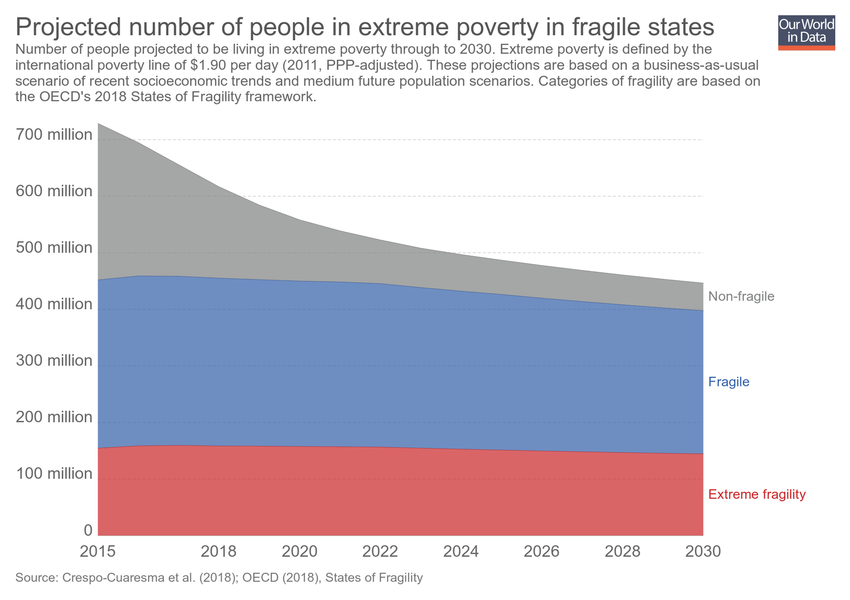
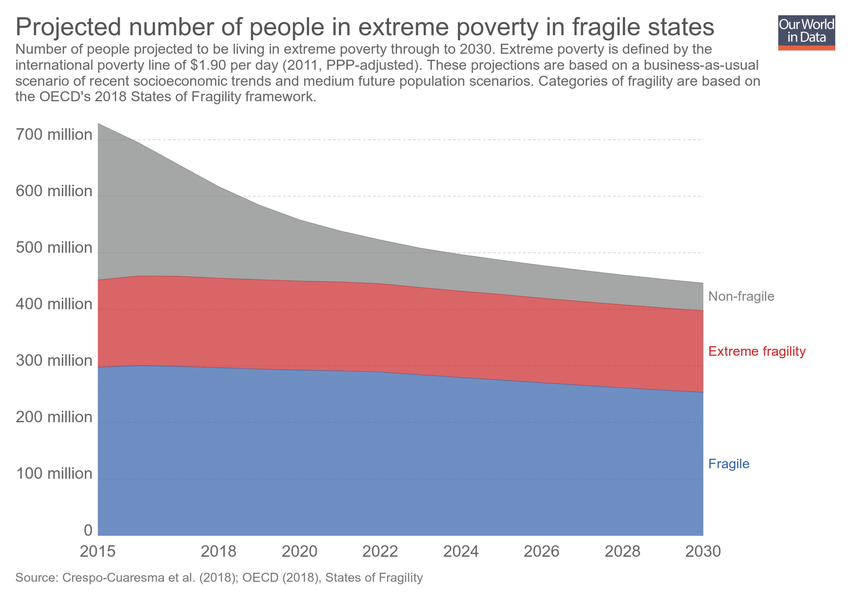
Updating chart extreme-poverty-fragile-states

Changed region(s): [[0.0918, 0.45, 0.9482, 0.66], [0.0918, 0.72, 0.9482, 0.9]]

diff --git a/grapher/extreme-poverty-fragile-states.html b/grapher/extreme-poverty-fragile-states.html
@@ -1,4 +1,4 @@
-<!doctype html><html><head><meta name="viewport" content="width=device-width, initial-scale=1" /><title>Projected number of people in extreme poverty in fragile states - Our World in Data</title><meta name="description" content="Number of people projected to be living in extreme poverty through to 2030. Extreme poverty is defined by the international poverty line of $1.90 per day (2011, PPP-adjusted). These projections are based on a business-as-usual scenario of recent socioeconomic trends and medium future population scenarios. Categories of fragility are based on the OECD's 2018 States of Fragility framework." /><link rel="canonical" href="https://ourworldindata.org/grapher/extreme-poverty-fragile-states" /><meta property="fb:app_id" content="1149943818390250" /><meta property="og:url" content="https://ourworldindata.org/grapher/extreme-poverty-fragile-states" /><meta property="og:title" content="Projected number of people in extreme poverty in fragile states" /><meta property="og:description" content="Number of people projected to be living in extreme poverty through to 2030. Extreme poverty is defined by the international poverty line of $1.90 per day (2011, PPP-adjusted). These projections are based on a business-as-usual scenario of recent socioeconomic trends and medium future population scenarios. Categories of fragility are based on the OECD's 2018 States of Fragility framework." /><meta property="og:image" content="https://ourworldindata.org/grapher/exports/extreme-poverty-fragile-states.png?v=1" /><meta property="og:image:width" content="850" /><meta property="og:image:height" content="600" /><meta property="og:site_name" content="Our World in Data" /><meta name="twitter:card" content="summary_large_image" /><meta name="twitter:site" content="@OurWorldInData" /><meta name="twitter:creator" content="@OurWorldInData" /><meta name="twitter:title" content="Projected number of people in extreme poverty in fragile states" /><meta name="twitter:description" content="Number of people projected to be living in extreme poverty through to 2030. Extreme poverty is defined by the international poverty line of $1.90 per day (2011, PPP-adjusted). These projections are based on a business-as-usual scenario of recent socioeconomic trends and medium future population scenarios. Categories of fragility are based on the OECD's 2018 States of Fragility framework." /><meta name="twitter:image" content="https://ourworldindata.org/grapher/exports/extreme-poverty-fragile-states.png?v=1" /><style>
+<!doctype html><html><head><meta name="viewport" content="width=device-width, initial-scale=1" /><title>Projected number of people in extreme poverty in fragile states - Our World in Data</title><meta name="description" content="Number of people projected to be living in extreme poverty through to 2030. Extreme poverty is defined by the international poverty line of $1.90 per day (2011, PPP-adjusted). These projections are based on a business-as-usual scenario of recent socioeconomic trends and medium future population scenarios. Categories of fragility are based on the OECD's 2018 States of Fragility framework." /><link rel="canonical" href="https://ourworldindata.org/grapher/extreme-poverty-fragile-states" /><meta property="fb:app_id" content="1149943818390250" /><meta property="og:url" content="https://ourworldindata.org/grapher/extreme-poverty-fragile-states" /><meta property="og:title" content="Projected number of people in extreme poverty in fragile states" /><meta property="og:description" content="Number of people projected to be living in extreme poverty through to 2030. Extreme poverty is defined by the international poverty line of $1.90 per day (2011, PPP-adjusted). These projections are based on a business-as-usual scenario of recent socioeconomic trends and medium future population scenarios. Categories of fragility are based on the OECD's 2018 States of Fragility framework." /><meta property="og:image" content="https://ourworldindata.org/grapher/exports/extreme-poverty-fragile-states.png?v=2" /><meta property="og:image:width" content="850" /><meta property="og:image:height" content="600" /><meta property="og:site_name" content="Our World in Data" /><meta name="twitter:card" content="summary_large_image" /><meta name="twitter:site" content="@OurWorldInData" /><meta name="twitter:creator" content="@OurWorldInData" /><meta name="twitter:title" content="Projected number of people in extreme poverty in fragile states" /><meta name="twitter:description" content="Number of people projected to be living in extreme poverty through to 2030. Extreme poverty is defined by the international poverty line of $1.90 per day (2011, PPP-adjusted). These projections are based on a business-as-usual scenario of recent socioeconomic trends and medium future population scenarios. Categories of fragility are based on the OECD's 2018 States of Fragility framework." /><meta name="twitter:image" content="https://ourworldindata.org/grapher/exports/extreme-poverty-fragile-states.png?v=2" /><style>
         html, body {
             height: 100%;
             margin: 0;
@@ -20,8 +20,8 @@
         }
     </style><noscript><style>
                     figure { display: none !important; }
-                </style></noscript><link rel="stylesheet" href="https://ourworldindata.org/grapher/assets/commons.bundle.521782e703f0fe72f108.css" /><link rel="preload" href="/grapher/data/variables/98035.json?v=1" as="fetch" crossorigin /></head><body class="singleChart"><figure data-grapher-src="/grapher/extreme-poverty-fragile-states"></figure><noscript id="fallback"><img src="/grapher/exports/extreme-poverty-fragile-states.svg" /><p>Interactive visualization requires JavaScript</p></noscript><script src="https://cdn.polyfill.io/v2/polyfill.min.js?features=es6,fetch"></script><script src="https://ourworldindata.org/grapher/assets/commons.bundle.521782e703f0fe72f108.js"></script><script src="https://ourworldindata.org/grapher/assets/charts.bundle.521782e703f0fe72f108.js"></script><script>
-        var jsonConfig = {"map":{"projection":"World","colorSchemeLabels":[],"colorSchemeValues":[],"customNumericColors":[],"customCategoryColors":{},"customCategoryLabels":{},"customHiddenCategories":{}},"tab":"chart","slug":"extreme-poverty-fragile-states","type":"StackedArea","title":"Projected number of people in extreme poverty in fragile states","xAxis":{"scaleType":"linear"},"yAxis":{"min":0,"scaleType":"linear"},"version":1,"subtitle":"Number of people projected to be living in extreme poverty through to 2030. Extreme poverty is defined by the international poverty line of $1.90 per day (2011, PPP-adjusted). These projections are based on a business-as-usual scenario of recent socioeconomic trends and medium future population scenarios. Categories of fragility are based on the OECD's 2018 States of Fragility framework.","hasMapTab":false,"stackMode":"absolute","dimensions":[{"display":{},"property":"y","variableId":98035}],"sourceDesc":"Crespo-Cuaresma et al. (2018); OECD (2018), States of Fragility","hasChartTab":true,"isPublished":true,"selectedData":[{"color":"#818282","index":0,"entityId":38220},{"color":"#3360a9","index":0,"entityId":38218},{"color":"#ca2628","index":0,"entityId":38217}],"addCountryMode":"disabled","id":3048};
+                </style></noscript><link rel="stylesheet" href="https://ourworldindata.org/grapher/assets/commons.bundle.521782e703f0fe72f108.css" /><link rel="preload" href="/grapher/data/variables/98035.json?v=2" as="fetch" crossorigin /></head><body class="singleChart"><figure data-grapher-src="/grapher/extreme-poverty-fragile-states"></figure><noscript id="fallback"><img src="/grapher/exports/extreme-poverty-fragile-states.svg" /><p>Interactive visualization requires JavaScript</p></noscript><script src="https://cdn.polyfill.io/v2/polyfill.min.js?features=es6,fetch"></script><script src="https://ourworldindata.org/grapher/assets/commons.bundle.521782e703f0fe72f108.js"></script><script src="https://ourworldindata.org/grapher/assets/charts.bundle.521782e703f0fe72f108.js"></script><script>
+        var jsonConfig = {"id":3048,"map":{"projection":"World","colorSchemeLabels":[],"colorSchemeValues":[],"customNumericColors":[],"customCategoryColors":{},"customCategoryLabels":{},"customHiddenCategories":{}},"tab":"chart","slug":"extreme-poverty-fragile-states","type":"StackedArea","title":"Projected number of people in extreme poverty in fragile states","xAxis":{"scaleType":"linear"},"yAxis":{"min":0,"scaleType":"linear"},"version":2,"subtitle":"Number of people projected to be living in extreme poverty through to 2030. Extreme poverty is defined by the international poverty line of $1.90 per day (2011, PPP-adjusted). These projections are based on a business-as-usual scenario of recent socioeconomic trends and medium future population scenarios. Categories of fragility are based on the OECD's 2018 States of Fragility framework.","hasMapTab":false,"stackMode":"absolute","dimensions":[{"display":{},"property":"y","variableId":98035}],"sourceDesc":"Crespo-Cuaresma et al. (2018); OECD (2018), States of Fragility","hasChartTab":true,"isPublished":true,"selectedData":[{"color":"#818282","index":0,"entityId":38220},{"color":"#ca2628","index":0,"entityId":38217},{"color":"#3360a9","index":0,"entityId":38218}],"addCountryMode":"disabled"};
         var figure = document.getElementsByTagName("figure")[0];
         try {
             window.App = {};
